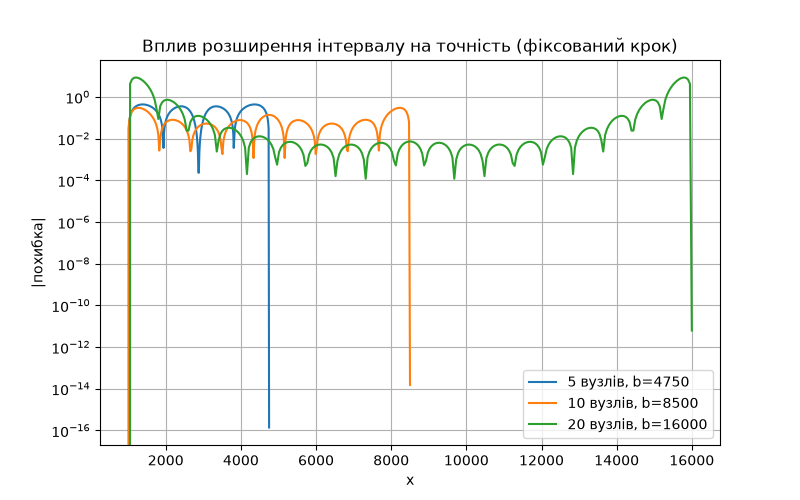
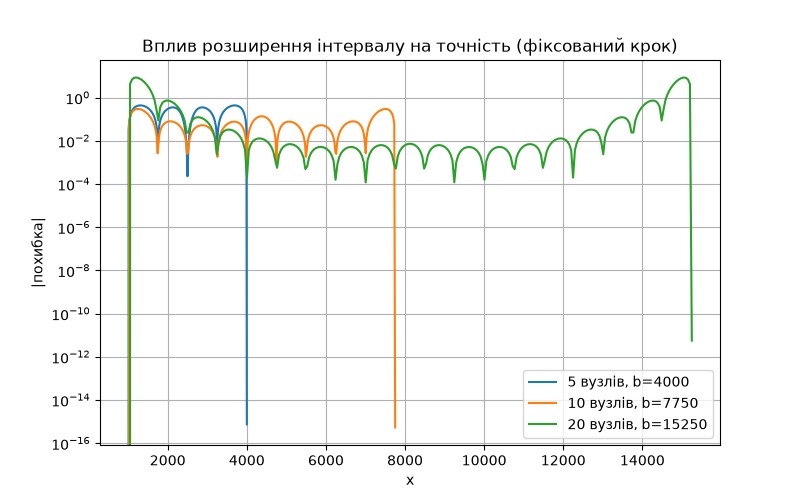
Lab2: Newton interpolation and factorial polynomials

diff --git a/lab2/main.py b/lab2/main.py
@@ -1,9 +1,11 @@
-def runge_test_func(x_val, a, b):
-    t = -1.0 + 2.0 * (x_val - a) / (b - a)
-    return 1.0 / (1.0 + 25.0 * t**2)
-
 import csv
+from math import factorial
 
+import numpy as np
+import matplotlib.pyplot as plt
+
+
+# ===================== Зчитування даних =====================
 def read_data(filename):
     x, y = [], []
     with open(filename, 'r', newline='') as file:
@@ -14,10 +16,13 @@ def read_data(filename):
             y.append(float(row[keys[1]]))
     return x, y
 
+
 x, y = read_data("data.csv")
 print("x:", x)
 print("y:", y)
 
+
+# ===================== Таблиця розділених різниць =====================
 def divided_diff_table(x, y):
     n = len(x)
     table = [[0.0] * n for _ in range(n)]
@@ -25,36 +30,78 @@ def divided_diff_table(x, y):
         table[i][0] = y[i]
     for j in range(1, n):
         for i in range(n - j):
-            table[i][j] = (table[i+1][j-1] - table[i][j-1]) / (x[i+j] - x[i])
+            table[i][j] = (table[i + 1][j - 1] - table[i][j - 1]) / (x[i + j] - x[i])
     return table
 
-table = divided_diff_table(x, y)
-for row in table:
-    print(["%.6f" % v for v in row])
 
+table = divided_diff_table(x, y)
+print("\nТаблиця розділених різниць:")
+for row in table:
+    print(["%.6e" % v for v in row])
+
+
+# ===================== Многочлен Ньютона =====================
 def newton_poly(x_data, table, x_val):
     n = len(x_data)
     result = table[0][0]
     product_term = 1.0
     for k in range(1, n):
-        product_term *= (x_val - x_data[k-1])
+        product_term *= (x_val - x_data[k - 1])
         result += table[0][k] * product_term
     return result
 
+
 pred_newton = newton_poly(x, table, 6000)
-print(f"Прогноз методом Ньютона при n=6000: {pred_newton:.4f} мс")
+print(f"\nПрогноз методом Ньютона при n=6000: {pred_newton:.4f} мс")
 
-from math import factorial
 
+# omega_k(x) = (x - x0)(x - x1)...(x - xk)
+def omega(x_val, x_data, k):
+    result = 1.0
+    for i in range(k + 1):
+        result *= (x_val - x_data[i])
+    return result
+
+# розділена різниця k-го порядку за явною формулою:
+# f(x0,...,xk) = sum f(xi) / prod(xi - xj), j != i
+def divided_diff_explicit(x_data, y_data, k):
+    total = 0.0
+    for i in range(k + 1):
+        denom = 1.0
+        for j in range(k + 1):
+            if j != i:
+                denom *= (x_data[i] - x_data[j])
+        total += y_data[i] / denom
+    return total
+
+# многочлен Ньютона за формулою: N(x) = f0 + sum omega_{k-1}(x) * f(x0,...,xk)
+def newton_poly_explicit(x_data, y_data, x_val):
+    result = y_data[0]
+    for k in range(1, len(x_data)):
+        result += omega(x_val, x_data, k - 1) * divided_diff_explicit(x_data, y_data, k)
+    return result
+
+
+# перевірка: явна формула дає ті самі різниці, що й рекурентна таблиця
+print("\nПорівняння розділених різниць (таблиця / явна формула):")
+for k in range(len(x)):
+    print(f"k={k}: {table[0][k]:.6e}  /  {divided_diff_explicit(x, y, k):.6e}")
+
+pred_explicit = newton_poly_explicit(x, y, 6000)
+print(f"Прогноз за явною формулою при n=6000: {pred_explicit:.4f} мс")
+
+
+# ===================== Факторіальні многочлени =====================
 def finite_diff_table(y):
     n = len(y)
-    table = [[0.0]*n for _ in range(n)]
+    table = [[0.0] * n for _ in range(n)]
     for i in range(n):
         table[i][0] = y[i]
     for j in range(1, n):
         for i in range(n - j):
-            table[i][j] = table[i+1][j-1] - table[i][j-1]
+            table[i][j] = table[i + 1][j - 1] - table[i][j - 1]
     return table
+
 
 def factorial_poly(x0, h, fd_table, x_val):
     n = len(fd_table)
@@ -66,23 +113,24 @@ def factorial_poly(x0, h, fd_table, x_val):
         result += fd_table[0][k] * t_fact / factorial(k)
     return result
 
+
+# факторіальні многочлени працюють на рівновіддалених вузлах,
+# тому будуємо рівномірну сітку на [x0, xn] за допомогою многочлена Ньютона
 n_uzl = len(x) - 1
 h = (x[-1] - x[0]) / n_uzl
-x_equal = [x[0] + i*h for i in range(n_uzl+1)]
+x_equal = [x[0] + i * h for i in range(n_uzl + 1)]
 y_equal = [newton_poly(x, table, xv) for xv in x_equal]
 
 fd_table = finite_diff_table(y_equal)
 pred_factorial = factorial_poly(x_equal[0], h, fd_table, 6000)
 print(f"Прогноз факторіальним многочленом при n=6000: {pred_factorial:.4f} мс")
 
-#графік
-import numpy as np
-import matplotlib.pyplot as plt
 
+# ===================== Графік інтерполяції =====================
 x_plot = np.linspace(min(x), max(x), 300)
 y_plot = [newton_poly(x, table, xv) for xv in x_plot]
 
-plt.figure(figsize=(8,5))
+plt.figure(figsize=(8, 5))
 plt.plot(x, y, 'ro', markersize=8, label='Експериментальні точки')
 plt.plot(x_plot, y_plot, 'b-', label='Многочлен Ньютона N(x)')
 plt.plot(6000, pred_newton, 'g*', markersize=15, label='Прогноз x=6000')
@@ -94,7 +142,9 @@ plt.grid(True)
 plt.savefig('newton_plot.png')
 plt.show()
 
-#5, 10, 20
+
+# ===================== 5, 10, 20 вузлів =====================
+print()
 for n_nodes in [5, 10, 20]:
     x_sub = list(np.linspace(min(x), max(x), n_nodes))
     y_sub = [newton_poly(x, table, xv) for xv in x_sub]
@@ -105,7 +155,7 @@ for n_nodes in [5, 10, 20]:
 x_dense = np.linspace(min(x), max(x), 400)
 f_reference = np.array([newton_poly(x, table, xv) for xv in x_dense])
 
-plt.figure(figsize=(8,5))
+plt.figure(figsize=(8, 5))
 for n_nodes in [5, 10, 20]:
     x_sub = list(np.linspace(min(x), max(x), n_nodes))
     y_sub = [newton_poly(x, table, xv) for xv in x_sub]
@@ -124,17 +174,68 @@ plt.yscale('log')
 plt.savefig('error_plot.png')
 plt.show()
 
-#дослідницька частина
-import numpy as np
-import matplotlib.pyplot as plt
 
+# ===================== Тестова функція Рунге =====================
+def runge_test_func(x_val, a, b):
+    t = -1.0 + 2.0 * (x_val - a) / (b - a)
+    return 1.0 / (1.0 + 25.0 * t ** 2)
+
+
+# ===== Табуляція f(x), N_n(x), eps(x), w_n(x) на [a,b] з кроком h = (b-a)/(20n) =====
 a, b = x[0], x[-1]
+n = 5                                            # кількість інтервалів (n+1 вузол)
+x_nodes = [a + i * (b - a) / n for i in range(n + 1)]
+y_nodes = [runge_test_func(xv, a, b) for xv in x_nodes]
+table_n = divided_diff_table(x_nodes, y_nodes)
+
+h_tab = (b - a) / (20 * n)
+x_tab = [a + i * h_tab for i in range(20 * n + 1)]
+f_tab = [runge_test_func(xv, a, b) for xv in x_tab]
+N_tab = [newton_poly(x_nodes, table_n, xv) for xv in x_tab]
+eps_tab = [abs(f - N) for f, N in zip(f_tab, N_tab)]
+w_tab = [omega(xv, x_nodes, n) for xv in x_tab]
+
+# запис результатів табуляції в текстовий файл
+with open("tabulation.txt", "w", encoding="utf-8") as file:
+    file.write(f"{'x':>10} {'f(x)':>14} {'N_n(x)':>14} {'eps(x)':>14} {'w_n(x)':>14}\n")
+    for row in zip(x_tab, f_tab, N_tab, eps_tab, w_tab):
+        file.write(f"{row[0]:10.2f} {row[1]:14.6e} {row[2]:14.6e} {row[3]:14.6e} {row[4]:14.6e}\n")
+print("\nТабуляцію записано у файл tabulation.txt")
+print(f"Максимальна похибка eps(x) при n={n}: {max(eps_tab):.6e}")
+
+fig, axes = plt.subplots(3, 1, figsize=(8, 10))
+
+axes[0].plot(x_tab, f_tab, 'b-', label='f(x)')
+axes[0].plot(x_tab, N_tab, 'r--', label='N_n(x)')
+axes[0].plot(x_nodes, y_nodes, 'ko', label='вузли')
+axes[0].set_title('Функція f(x) та многочлен Ньютона N_n(x)')
+axes[0].legend()
+axes[0].grid(True)
+
+axes[1].plot(x_tab, eps_tab, 'g-')
+axes[1].set_title('Похибка інтерполяції ε(x) = |f(x) − N_n(x)|')
+axes[1].grid(True)
+
+axes[2].plot(x_tab, w_tab, 'm-')
+axes[2].axhline(0, color='k', lw=0.8)
+axes[2].set_title('Функція w_n(x) = ∏(x − xᵢ)')
+axes[2].set_xlabel('x')
+axes[2].grid(True)
+
+plt.tight_layout()
+plt.savefig('tabulation_plot.png')
+plt.show()
+
+
+# ===================== ДОСЛІДНИЦЬКА ЧАСТИНА =====================
 node_counts = [5, 10, 20]
 
+# ---- 1. Вплив кроку: фіксований інтервал, різна кількість вузлів ----
 x_dense = np.linspace(a, b, 400)
 f_reference = np.array([runge_test_func(xv, a, b) for xv in x_dense])
 
-plt.figure(figsize=(8,5))
+print()
+plt.figure(figsize=(8, 5))
 results_step = []
 for n_nodes in node_counts:
     x_sub = list(np.linspace(a, b, n_nodes))
@@ -145,7 +246,7 @@ for n_nodes in node_counts:
     err = np.abs(y_interp - f_reference)
     max_err = err.max()
     results_step.append((n_nodes, max_err))
-    print(f"n_nodes={n_nodes}: крок h={(b-a)/(n_nodes-1):.2f}, макс. похибка={max_err:.6e}")
+    print(f"n_nodes={n_nodes}: крок h={(b - a) / (n_nodes - 1):.2f}, макс. похибка={max_err:.6e}")
 
     plt.plot(x_dense, err, label=f'{n_nodes} вузлів')
 
@@ -158,15 +259,15 @@ plt.grid(True)
 plt.savefig('error_step_influence.png')
 plt.show()
 
-h_fixed = (b - a) / 20.0   # базовий фіксований крок
-print(f"Фіксований крок h = {h_fixed:.3f}")
+# ---- 2. Вплив кількості вузлів: фіксований крок, змінний інтервал ----
+h_fixed = (b - a) / 20.0   # фіксований крок
+print(f"\nФіксований крок h = {h_fixed:.3f}")
 
-plt.figure(figsize=(8,5))
+plt.figure(figsize=(8, 5))
 results_interval = []
 for n_nodes in node_counts:
-    b_var = a + h_fixed * n_nodes
-    b_var = min(b_var, x[-1])  # не виходимо за межі відомого інтервалу
-    x_sub = list(np.linspace(a, b_var, n_nodes))
+    b_var = a + h_fixed * (n_nodes - 1)                  # останній вузол при кроці h
+    x_sub = [a + i * h_fixed for i in range(n_nodes)]    # вузли з точно фіксованим кроком
     y_sub = [runge_test_func(xv, a, b_var) for xv in x_sub]
     table_sub = divided_diff_table(x_sub, y_sub)
 
@@ -189,6 +290,7 @@ plt.grid(True)
 plt.savefig('error_interval_influence.png')
 plt.show()
 
+# ---- 3. Аналіз ефекту Рунге ----
 print("\nАналіз ефекту Рунге:")
 for n_nodes, max_err in results_step:
     print(f"  n={n_nodes:3d}  максимальна похибка = {max_err:.6e}")
